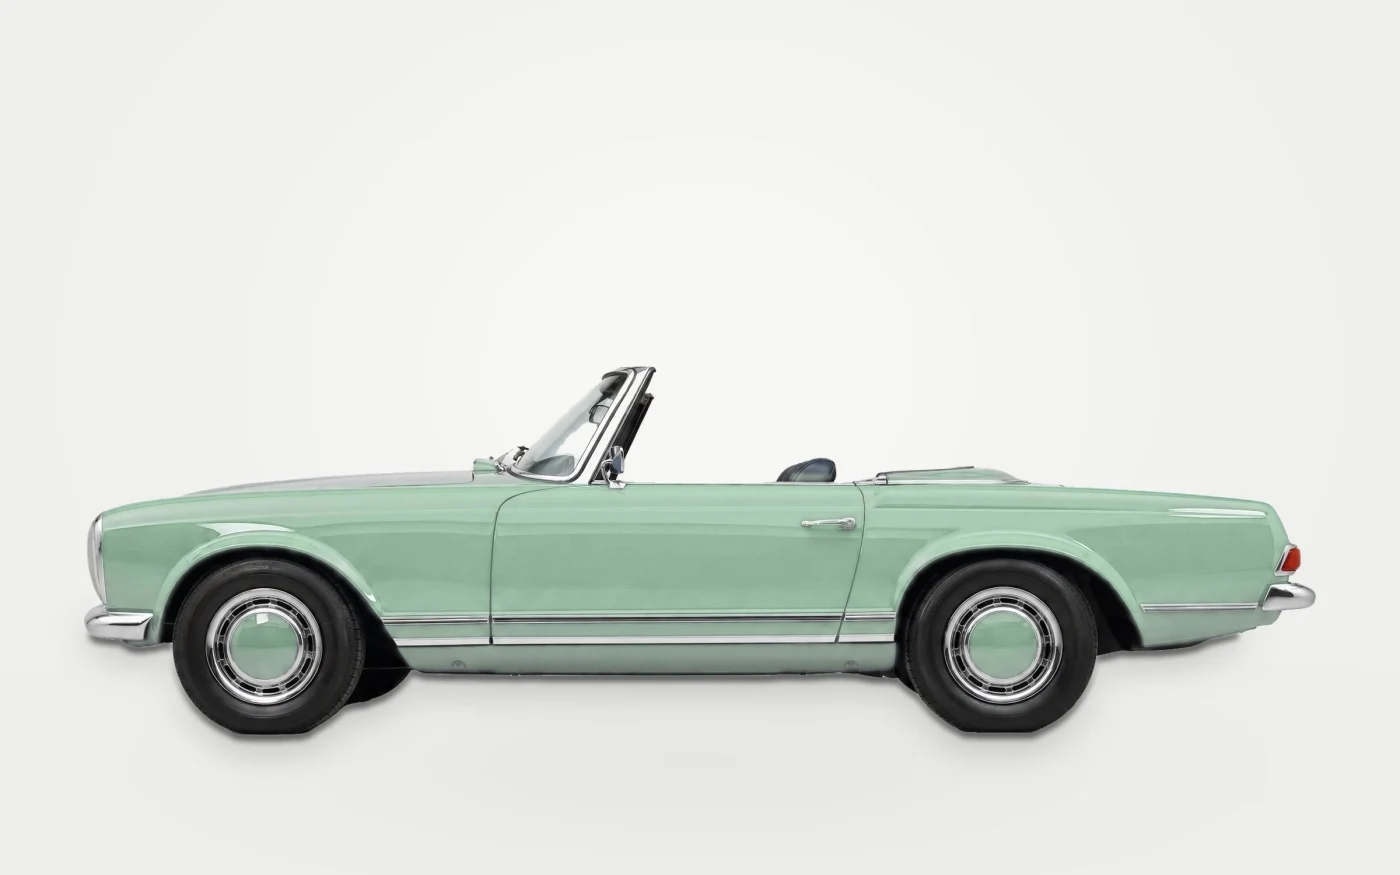
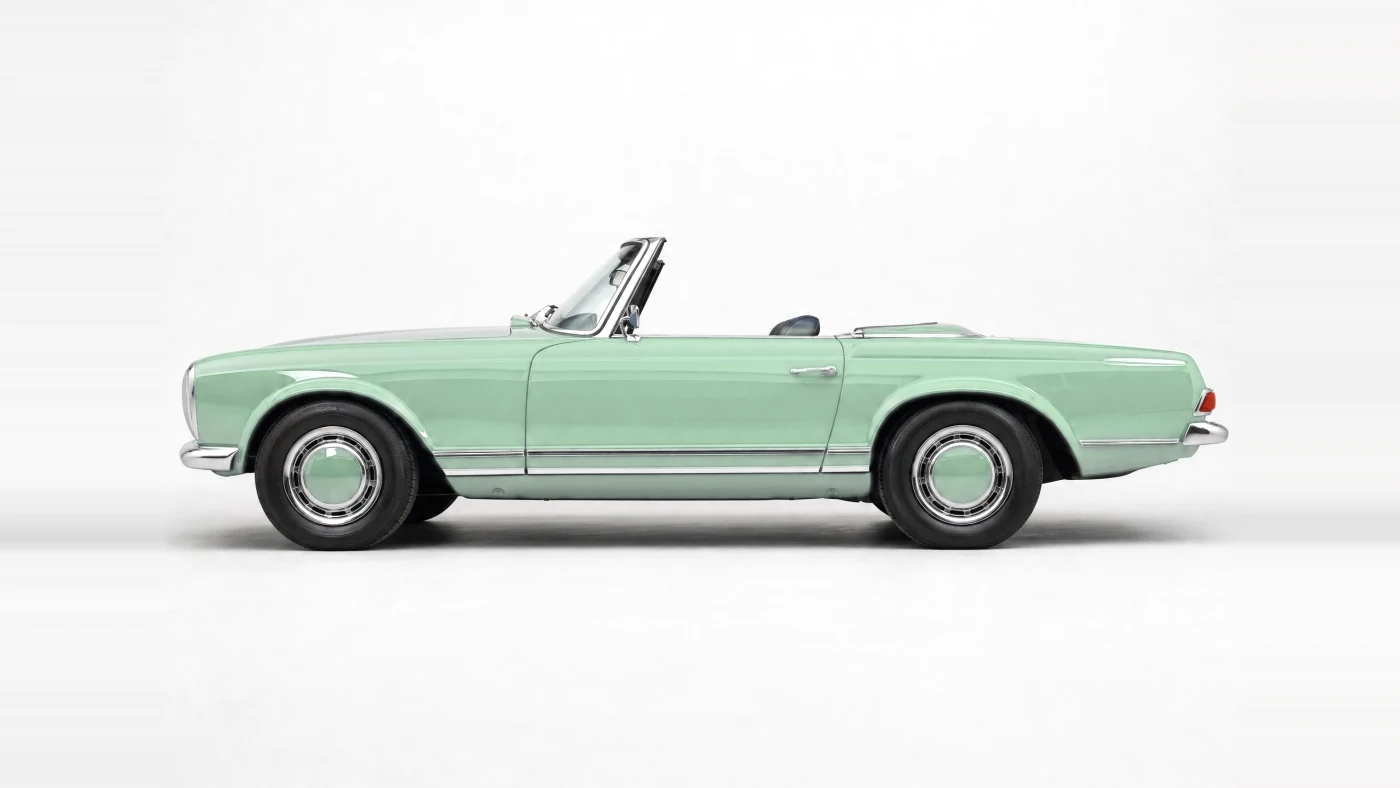
Startseite: Slider-Bilder aus Originalfotos mit natürlichem Schatten (saubere Räder), Beschriftung wieder wie zuvor
Claude-Session: https://claude.ai/code/session_01VYM2HYM7SGZ4tfKpLsvwsL

Changed region(s): [[0.0614, 0.3046, 0.9521, 0.8832], [0.4914, 0.8528, 0.5221, 0.8832]]

diff --git a/taeubert-website/index.html b/taeubert-website/index.html
@@ -153,16 +153,6 @@
   /* Customize-Slider: Bilder gleiten von rechts nach links */
   #slider .slide { opacity: 1; clip-path: none; transform: translateX(100%); transition: transform .9s cubic-bezier(.65,0,.35,1); will-change: transform; }
   #slider .slide.active { transform: translateX(0); }
-  #slider { background: #efefed; color: #111; }
-  #slider .slide, #slider .media { background: #efefed; }
-  #slider .overlay { display: none; }
-  #slider .media img { object-fit: contain; object-position: center 70%; }
-  #slider .slide-content { align-items: start; padding-top: clamp(28px, 6vh, 70px); }
-  #slider .slide h2 { color: #111; margin-bottom: 18px; }
-  #slider .btn-light { background: #111; color: #fff; border-color: #111; }
-  #slider .btn-light:hover { background: #333; border-color: #333; }
-  #slider .dots { background: rgba(0,0,0,.25); }
-  @media (max-width: 760px) { #slider .slide h2 { font-size: 34px; } #slider .media img { object-position: center 75%; } }
   .slide .overlay { opacity: .2; }
   .slide-content { position: absolute; inset: 0; display: grid; place-items: center; text-align: center; padding: 20px; }
   .slide h2 { font-size: clamp(40px, 6vw, 80px); margin-bottom: 26px; }
@@ -821,17 +811,17 @@
   <section class="slides-section">
     <div class="slider" id="slider">
       <div class="slide active">
-        <div class="media"><img src="images/slider-porsche-911-pastellblau.webp" srcset="images/slider-porsche-911-pastellblau-700.webp 700w, images/slider-porsche-911-pastellblau-1400.webp 1400w, images/slider-porsche-911-pastellblau.webp 2400w" sizes="100vw" alt="Porsche 911 in Pastellblau"></div>
+        <div class="media"><img src="images/slider-porsche-911-pastellblau.webp" srcset="images/slider-porsche-911-pastellblau-700.webp 700w, images/slider-porsche-911-pastellblau-1400.webp 1400w, images/slider-porsche-911-pastellblau.webp 2560w" sizes="100vw" alt="Porsche 911 in Pastellblau"></div>
         <div class="overlay"></div>
         <div class="slide-content"><div><h2><strong>Klassiker</strong></h2><a class="btn btn-light" href="konfigurator.html">Täubert Customize</a></div></div>
       </div>
       <div class="slide">
-        <div class="media"><img src="images/slider-vw-kaefer-creme.webp" srcset="images/slider-vw-kaefer-creme-700.webp 700w, images/slider-vw-kaefer-creme-1400.webp 1400w, images/slider-vw-kaefer-creme.webp 2400w" sizes="100vw" alt="VW Käfer in Creme"></div>
+        <div class="media"><img src="images/slider-vw-kaefer-creme.webp" srcset="images/slider-vw-kaefer-creme-700.webp 700w, images/slider-vw-kaefer-creme-1400.webp 1400w, images/slider-vw-kaefer-creme.webp 2560w" sizes="100vw" alt="VW Käfer in Creme"></div>
         <div class="overlay"></div>
         <div class="slide-content"><div><h2><strong>Ihr Wunschlack</strong></h2><a class="btn btn-light" href="konfigurator.html">Täubert Customize</a></div></div>
       </div>
       <div class="slide">
-        <div class="media"><img src="images/slider-mercedes-pagode-salbeigruen.webp" srcset="images/slider-mercedes-pagode-salbeigruen-700.webp 700w, images/slider-mercedes-pagode-salbeigruen-1400.webp 1400w, images/slider-mercedes-pagode-salbeigruen.webp 2400w" sizes="100vw" alt="Mercedes-Benz 280 SL Pagode in Salbeigrün"></div>
+        <div class="media"><img src="images/slider-mercedes-pagode-salbeigruen.webp" srcset="images/slider-mercedes-pagode-salbeigruen-700.webp 700w, images/slider-mercedes-pagode-salbeigruen-1400.webp 1400w, images/slider-mercedes-pagode-salbeigruen.webp 2560w" sizes="100vw" alt="Mercedes-Benz 280 SL Pagode in Salbeigrün"></div>
         <div class="overlay"></div>
         <div class="slide-content"><div><h2><strong>Restauration</strong></h2><a class="btn btn-light" href="konfigurator.html">Täubert Customize</a></div></div>
       </div>
